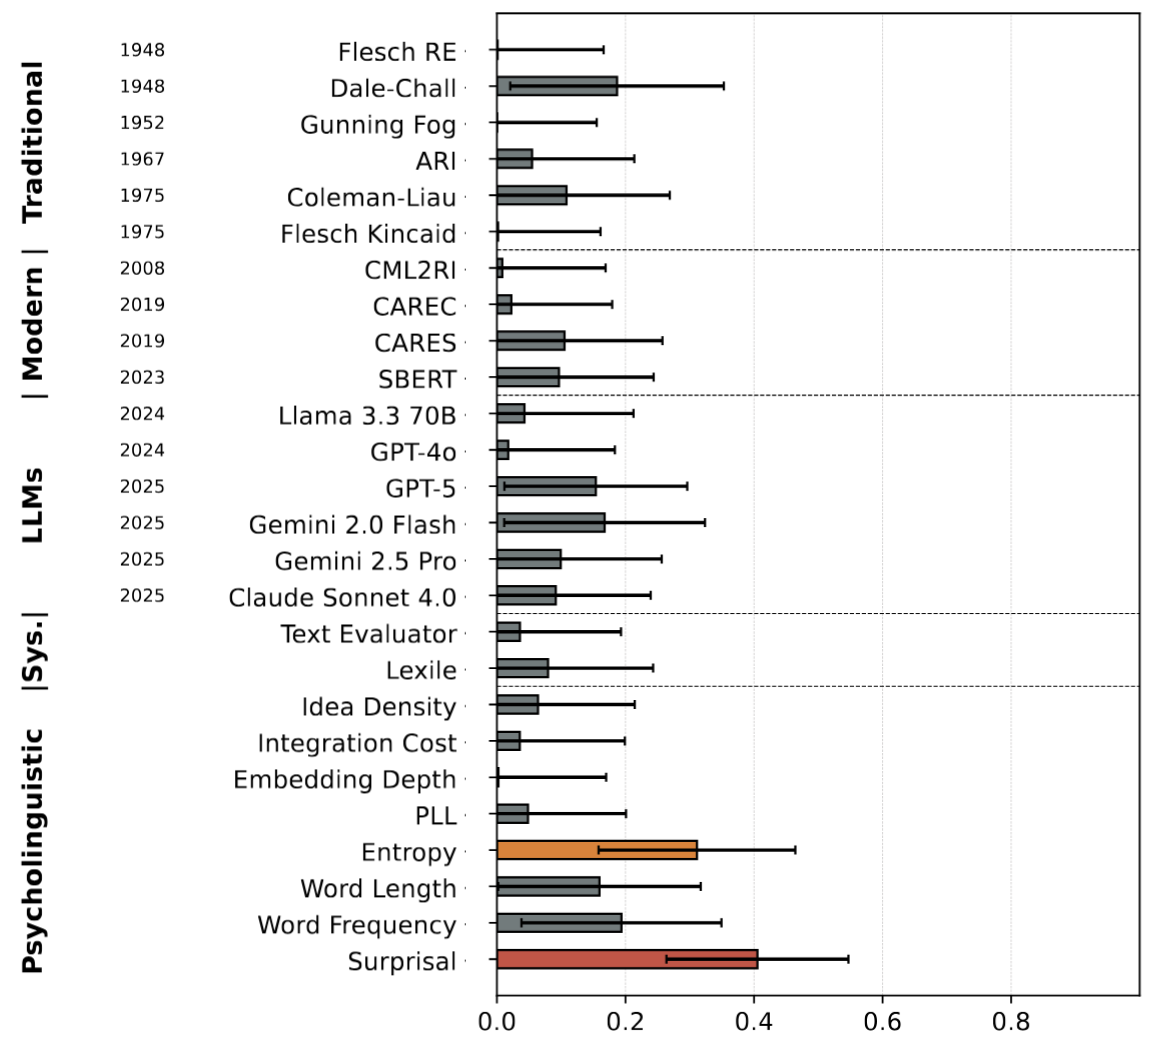
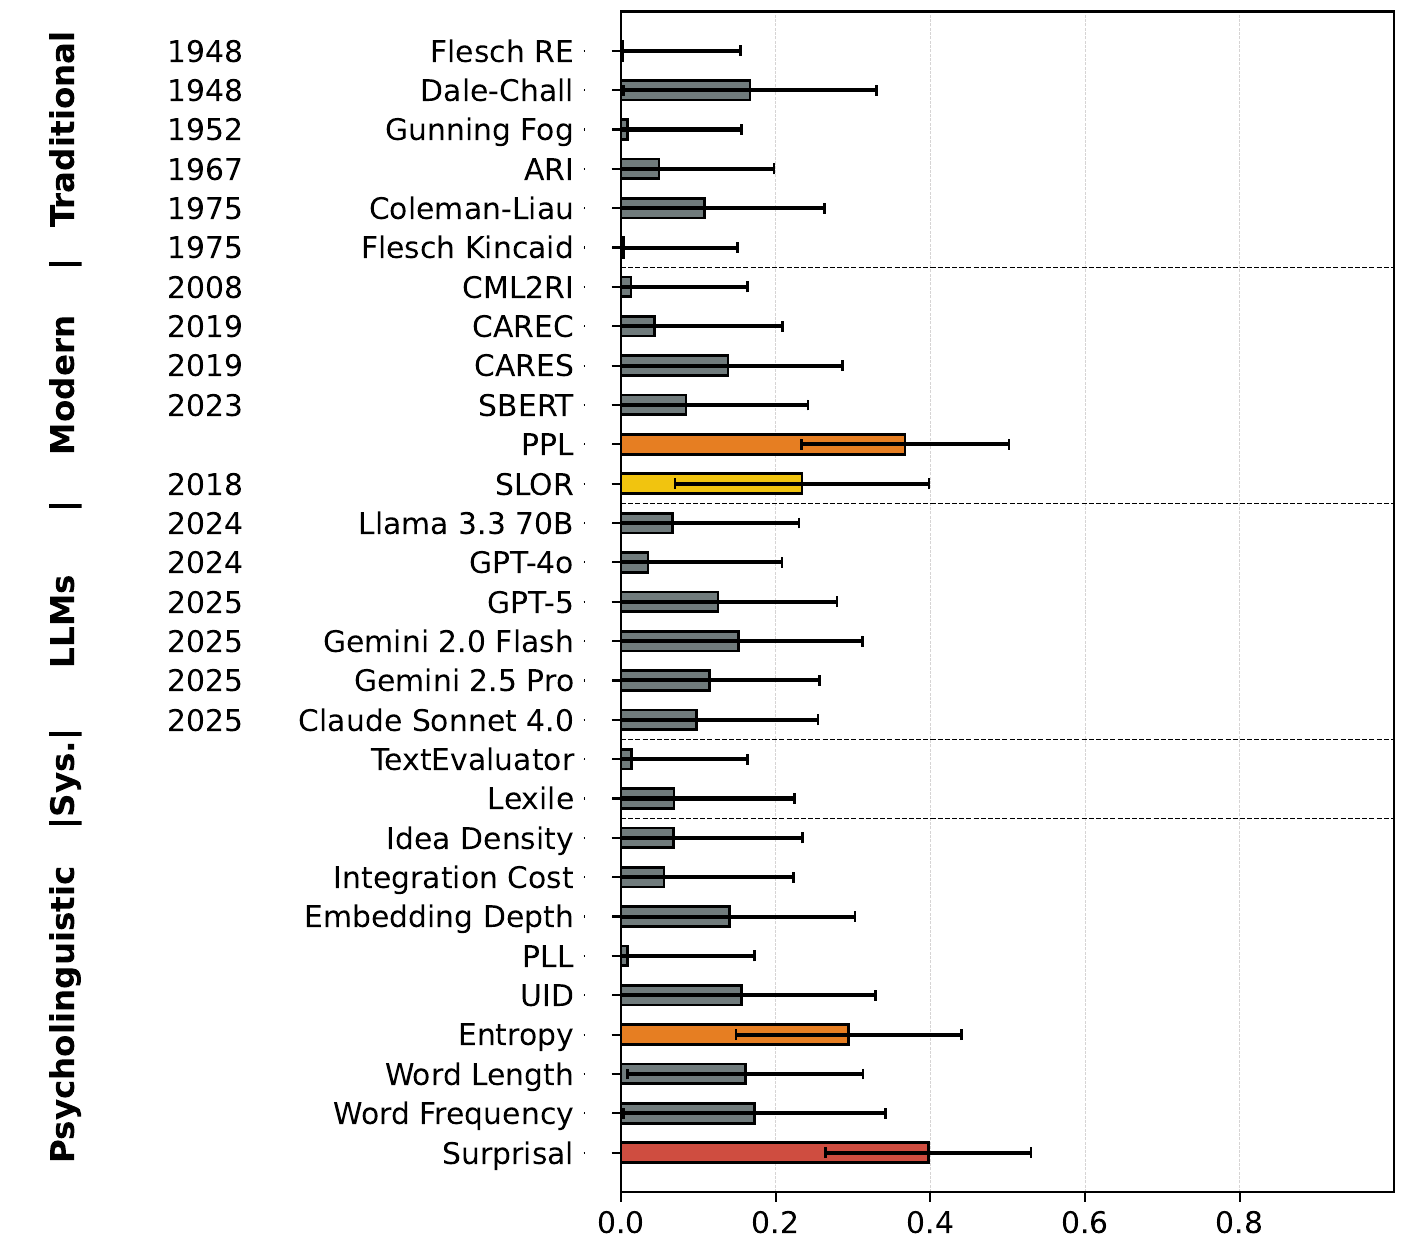
Update landing page to final EMNLP 2026 talk

diff --git a/index.html b/index.html
@@ -141,6 +141,28 @@ header .buttons.secondary{margin-top:-6px}
 }
 .tldr{margin:6px auto 0;max-width:62ch;padding:14px 18px;border:1px solid var(--rule);border-radius:12px;background:var(--surface);font-size:18px;line-height:1.5;text-align:left}
 .tldr-label{font-family:var(--mono);font-size:13px;font-weight:500;letter-spacing:.04em;color:var(--muted);border:1px solid var(--rule);border-radius:4px;padding:1px 6px;margin-right:10px;vertical-align:2px;background:var(--bg)}
+.compare{display:grid;grid-template-columns:minmax(0,1fr) auto minmax(0,1fr);gap:10px 16px;align-items:center;max-width:820px;margin:0 auto;width:100%}
+.compare .hd{font-weight:700;font-size:17px;display:flex;align-items:center;gap:8px}
+.compare .cell{border:1px solid var(--rule);border-radius:10px;padding:10px 14px;display:flex;gap:10px;align-items:center;min-width:0}
+.compare .cell.bad{color:var(--muted)} .compare .cell.good{border-color:var(--blue)}
+.compare .arrow{text-align:center}
+@media (max-width:640px){.compare{gap:8px 6px;font-size:14px}.compare .cell{padding:8px 8px;gap:6px}.compare .hd{font-size:14px}.compare .arrow{transform:none;font-size:16px}}
+.pair{display:grid;grid-template-columns:repeat(2,minmax(0,1fr));gap:20px}
+@media (max-width:760px){.pair{grid-template-columns:minmax(0,1fr)}}
+.pair .txt{border:1px solid var(--rule);border-radius:12px;padding:14px 16px;font-size:16px;line-height:1.6;min-width:0}
+.pair .txt h3{margin:0 0 8px;font-size:18px;display:flex;align-items:center;gap:8px;justify-content:space-between}
+.pair .txt h3 small{font-weight:400;color:var(--muted);font-size:14px}
+mark.d-red{background:transparent;color:#c0392b;font-weight:700} mark.d-green{background:transparent;color:#2e8b57;font-weight:700}
+@media (prefers-color-scheme: dark){:root:not([data-theme="light"]) mark.d-red,:root:not([data-theme="light"]) mark.d-green{filter:brightness(1.4)}}
+.methods{display:grid;grid-template-columns:repeat(5,minmax(0,1fr));gap:12px}
+@media (max-width:860px){.methods{grid-template-columns:repeat(2,minmax(0,1fr))}}
+@media (max-width:520px){.methods{grid-template-columns:minmax(0,1fr)}}
+.methods .card h3{font-size:17px} .methods ul{margin:6px 0 0;padding:0;list-style:none;color:var(--muted);font-size:15px;line-height:1.5}
+.methods .card.psy{border-style:dashed}
+.readers figcaption b.c-red{color:#c0392b} .readers figcaption b.c-green{color:#2e8b57}
+.cards.four{grid-template-columns:repeat(4,minmax(0,1fr))}
+@media (max-width:860px){.cards.four{grid-template-columns:repeat(2,minmax(0,1fr))}}
+@media (max-width:520px){.cards.four{grid-template-columns:minmax(0,1fr)}}
 </style>
 </head>
 <body>
@@ -155,6 +177,7 @@ header .buttons.secondary{margin-top:-6px}
   <symbol id="i-check" viewBox="0 0 24 24"><g fill="none" stroke="currentColor" stroke-width="2" stroke-linecap="round" stroke-linejoin="round"><circle cx="12" cy="12" r="10"/><path d="m9 12 2 2 4-4"/></g></symbol>
   <symbol id="i-chart" viewBox="0 0 24 24"><g fill="none" stroke="currentColor" stroke-width="2" stroke-linecap="round" stroke-linejoin="round"><path d="M3 3v18h18"/><path d="M18 17V9"/><path d="M13 17V5"/><path d="M8 17v-3"/></g></symbol>
   <symbol id="i-reader" viewBox="0 0 56 64"><circle cx="28" cy="15" r="13" fill="currentColor"/><path d="M4 64 C4 42 14 32 28 32 C42 32 52 42 52 64 Z" fill="currentColor"/></symbol>
+  <symbol id="i-x" viewBox="0 0 24 24"><g fill="none" stroke="currentColor" stroke-width="2" stroke-linecap="round"><path d="M18 6 6 18M6 6l12 12"/></g></symbol>
   <symbol id="i-eye" viewBox="0 0 48 40"><g fill="none" stroke="currentColor" stroke-width="3.5"><path d="M2 10V2h8M38 2h8v8M46 30v8h-8M10 38H2v-8"/><path d="M9 20c4-6.5 9-9.5 15-9.5s11 3 15 9.5c-4 6.5-9 9.5-15 9.5s-11-3-15-9.5z"/><circle cx="24" cy="20" r="6"/></g><circle cx="24" cy="20" r="3.2" fill="currentColor"/></symbol>
 </svg>
 <main>
@@ -187,15 +210,28 @@ header .buttons.secondary{margin-top:-6px}
   </section>
 
 
-  <section aria-labelledby="rb">
-    <h2 id="rb">Reading Behaviour</h2>
-    <p class="lead">Two readers of the same paragraph, both answering the comprehension question correctly. Replays at 4× speed with <a href="https://github.com/lacclab/scanpath-studio">Scanpath Studio</a>.</p>
-    <div class="readers">
-      <figure><img src="static/images/reader_a.gif" alt="Replay of reader A: many fixations and regressions over the paragraph" loading="lazy"><figcaption><b>Reader A · 82 s</b> · <svg class="ic c-fg sm" aria-hidden="true"><use href="#i-check"/></svg> Correct</figcaption></figure>
-      <figure><img src="static/images/reader_b.gif" alt="Replay of reader B: fewer fixations, fluent reading of the same paragraph" loading="lazy"><figcaption><b>Reader B · 28 s</b> · <svg class="ic c-fg sm" aria-hidden="true"><use href="#i-check"/></svg> Correct</figcaption></figure>
+  <section aria-labelledby="why">
+    <h2 id="why">Why Eye Movements?</h2>
+    <p class="lead">Readability methods are usually validated against comprehension tests or human difficulty labels. Eye movements give a <span class="k-blue">cognitive</span> signal of how easy a text is to read, in real time.</p>
+    <div class="compare">
+      <div class="hd">Comprehension tests &amp; labels</div><div></div><div class="hd right"><svg class="ic c-blue" aria-hidden="true"><use href="#i-eye"/></svg><span class="k-blue">Eye movements</span></div>
+      <div class="cell bad"><svg class="ic sm c-fg" aria-hidden="true"><use href="#i-x"/></svg><span>Measured after reading</span></div><div class="arrow" aria-hidden="true">→</div><div class="cell good"><svg class="ic sm c-blue" aria-hidden="true"><use href="#i-check"/></svg><span>Online: during reading</span></div><div class="cell bad"><svg class="ic sm c-fg" aria-hidden="true"><use href="#i-x"/></svg><span>Depends on written questions</span></div><div class="arrow" aria-hidden="true">→</div><div class="cell good"><svg class="ic sm c-blue" aria-hidden="true"><use href="#i-check"/></svg><span>No questions needed</span></div><div class="cell bad"><svg class="ic sm c-fg" aria-hidden="true"><use href="#i-x"/></svg><span>A few discrete levels</span></div><div class="arrow" aria-hidden="true">→</div><div class="cell good"><svg class="ic sm c-blue" aria-hidden="true"><use href="#i-check"/></svg><span>Continuous measures</span></div><div class="cell bad"><svg class="ic sm c-fg" aria-hidden="true"><use href="#i-x"/></svg><span>Different texts: topic mixed with readability</span></div><div class="arrow" aria-hidden="true">→</div><div class="cell good"><svg class="ic sm c-blue" aria-hidden="true"><use href="#i-check"/></svg><span>Same text, two versions: content controlled</span></div>
     </div>
+  </section>
+
+  <section aria-labelledby="cce">
+    <h2 id="cce">Content-Controlled Evaluation</h2>
+    <p class="lead">Each paragraph has an <span class="k-red">original</span> and a <span class="k-green">simplified</span> version written by language teachers: same topic and content, only the wording changes.</p>
+    <div class="pair">
+      <div class="txt"><h3><span class="c-red"><svg class="ic sm c-red" aria-hidden="true"><use href="#i-book"/></svg> Original</span><small>86 words</small></h3><mark class="d-red">Viennese-born</mark> Helena Hartlauer, 32, said she was not surprised <mark class="d-red">at</mark> her city&#x27;s top position. <mark class="d-red">The municipality&#x27;s social democratic</mark> government has a <mark class="d-red">long tradition of investing in high-quality social housing, making Vienna almost uniquely affordable among major</mark> cities. &quot;I live in a <mark class="d-red">100sq-meter turn-of-the-century</mark> apartment in a good area about 20 minutes&#x27; walk from the city center. But my rent is just €800 (£625) a month.&quot; <mark class="d-red">An equivalent</mark> apartment in London <mark class="d-red">would cost upwards of</mark> £2,000 and even more in New York, <mark class="d-red">ranked</mark> 44th in the <mark class="d-red">table.</mark></div>
+      <div class="txt"><h3><span class="c-green"><svg class="ic sm c-green" aria-hidden="true"><use href="#i-book"/></svg> Simplified</span><small>90 words</small></h3>Helena Hartlauer, 32, <mark class="d-green">is from Vienna. She</mark> said she was not surprised <mark class="d-green">about</mark> her city&#x27;s top position. <mark class="d-green">For many years, Vienna&#x27;s</mark> government has <mark class="d-green">spent money on good social housing. This makes Vienna</mark> a <mark class="d-green">cheap place to live compared to other big</mark> cities. &quot;I live in a <mark class="d-green">100 square-meter</mark> apartment in a good area about 20 minutes&#x27; walk from the city center. But my rent is just €800 (£625) a month.&quot; <mark class="d-green">A similar</mark> apartment in London <mark class="d-green">costs over</mark> £2,000 and even more in New York, <mark class="d-green">which came</mark> 44th in the <mark class="d-green">study.</mark></div>
+    </div>
+    <div class="readers">
+      <figure><img src="static/images/original_vienna.gif" alt="Replay at 4x speed of one native English reader reading the original paragraph: 26 seconds, 28 regressions" loading="lazy"><figcaption><b class="c-red">Original · 26 s · 28 regressions</b></figcaption></figure>
+      <figure><img src="static/images/simplified_vienna.gif" alt="Replay at 4x speed of one native English reader reading the simplified paragraph: 20 seconds, 9 regressions" loading="lazy"><figcaption><b class="c-green">Simplified · 20 s · 9 regressions</b></figcaption></figure>
+    </div>
+    <p class="lead">One reader per version, replayed at 4× speed with <a href="https://github.com/lacclab/scanpath-studio">Scanpath Studio</a>. Individual readers vary, so the evaluation averages about 100 readers per version.</p>
     <p class="tool-link"><a class="btn lab" href="https://github.com/lacclab/scanpath-studio">Scanpath Studio · Replay Eye-Tracking Trials</a></p>
-    <p class="lead">Same answer, very different <span class="k-blue">reading</span>. Comprehension tests and ratings miss what happens while people read.</p>
   </section>
 
   <section aria-labelledby="meth">
@@ -241,14 +277,21 @@ header .buttons.secondary{margin-top:-6px}
     </div>
   </section>
 
+  <section aria-labelledby="rm">
+    <h2 id="rm">Readability Methods</h2>
+    <p class="lead">20 <span class="k-orange">readability methods</span>, benchmarked against 9 psycholinguistic measures from reading research.</p>
+    <div class="methods"><div class="card"><h3 class="k-orange">Traditional Formulas</h3><ul><li>Flesch RE</li><li>Dale-Chall</li><li>Gunning Fog</li><li>ARI</li><li>Coleman-Liau</li><li>Flesch-Kincaid</li></ul></div><div class="card"><h3 class="k-orange">Modern NLP Methods</h3><ul><li>CML2RI</li><li>CAREC</li><li>CARES</li><li>SBERT</li><li>PPL</li><li>SLOR</li></ul></div><div class="card"><h3 class="k-orange">LLMs</h3><ul><li>Llama 3.3 70B</li><li>GPT-4o</li><li>GPT-5</li><li>Gemini 2.0 Flash</li><li>Gemini 2.5 Pro</li><li>Claude Sonnet 4.0</li></ul></div><div class="card"><h3 class="k-orange">Commercial Systems</h3><ul><li>TextEvaluator</li><li>Lexile</li></ul></div><div class="card psy"><h3 class="">Psycholinguistic Measures</h3><ul><li>Idea Density</li><li>Integration Cost</li><li>Embedding Depth</li><li>PLL</li><li>UID</li><li>Entropy</li><li>Word Length</li><li>Word Frequency</li><li>Surprisal</li></ul></div></div>
+  </section>
+
   <section aria-labelledby="res">
     <h2 id="res">Results</h2>
     <div class="result">
       <figure>
-        <img src="static/images/results.png" alt="Bar chart of Pearson r between the change in each method's score and the change in reading ease, from original to simplified texts. Readability methods from 1948 to 2025 are low; surprisal is highest.">
-        <figcaption>Pearson r between Δ Score (original − simplified) and Δ Regression Rate from eye tracking, for each readability method. Bar color marks significance.
+        <img src="static/images/results.png" alt="Bar chart of Pearson r between the change in each method's score and the change in regression rate, from original to simplified paragraphs. Readability methods from 1948 to 2025 are low; surprisal is highest.">
+        <figcaption>Pearson r between Δ Score (original − simplified) and Δ Regression Rate from eye tracking, paragraph level, for each readability method and psycholinguistic measure. Error bars: 95% bootstrap confidence intervals. Bar color marks significance.
           <span class="legend" aria-label="Legend">
             <span><i style="background:#7d8a87"></i>Not significant</span>
+            <span><i style="background:#f2c12e"></i>p &lt; 0.05</span>
             <span><i style="background:#d9843a"></i>p &lt; 0.01</span>
             <span><i style="background:#c1554a"></i>p &lt; 0.001</span>
           </span></figcaption>
@@ -256,26 +299,29 @@ header .buttons.secondary{margin-top:-6px}
       <div class="takeaways">
         <div><h3 class="k-orange">Readability Methods</h3><p>Traditional formulas, NLP models, commercial systems and LLMs, from 1948 to 2025, are weak and mostly not significant predictors of reading ease.</p></div>
         <div><h3>Psycholinguistic Measures</h3><p>Psycholinguistic measures used to predict reading times do better. Surprisal is the best predictor overall.</p></div>
-        <div><h3 class="k-blue">Data</h3><p>OneStop: 360 native and 278 non-native English speakers reading 162 original and simplified paragraph pairs with eye tracking.</p></div>
+        <div><h3 class="k-blue">Data</h3><p>OneStop: about 640 readers (360 native and 278 non-native English speakers) reading 162 original and simplified paragraph pairs with eye tracking.</p></div>
       </div>
     </div>
   </section>
 
   <section aria-labelledby="rob">
     <h2 id="rob">Robustness</h2>
-    <div class="cards">
+    <div class="cards four">
       <div class="card"><svg class="ic c-fg big" aria-hidden="true"><use href="#i-users"/></svg><h3>Readers</h3><p>Native &amp; non-native English speakers</p></div>
       <div class="card"><svg class="ic c-fg big" aria-hidden="true"><use href="#i-search"/></svg><h3>Reading Regimes</h3><p>Reading for comprehension &amp; information seeking</p></div>
       <div class="card"><svg class="ic c-fg big" aria-hidden="true"><use href="#i-book"/></svg><h3>Text Units</h3><p>Sentences &amp; paragraphs</p></div>
+      <div class="card"><svg class="ic c-blue big" aria-hidden="true"><use href="#i-eye"/></svg><h3>Measures</h3><p>11 eye-tracking measures &amp; reading speed</p></div>
     </div>
   </section>
 
   <section aria-labelledby="tk">
     <h2 id="tk">Takeaways</h2>
     <ul class="takeaways-list icons-list">
+      <li><svg class="ic c-blue" aria-hidden="true"><use href="#i-eye"/></svg><span>A <span class="k-blue">cognitive</span> evaluation of <span class="k-orange">readability methods</span>.</span></li>
+      <li><svg class="ic c-fg" aria-hidden="true"><use href="#i-book"/></svg><span>Content-controlled evaluation: the same text in two versions.</span></li>
       <li><svg class="ic c-orange" aria-hidden="true"><use href="#i-warn"/></svg><span><span class="k-orange">Existing readability scores</span> may not reflect <span class="k-blue">reading ease</span>.</span></li>
+      <li><svg class="ic c-blue" aria-hidden="true"><use href="#i-chart"/></svg><span><span class="k-orange">Future readability measures</span> should reflect <span class="k-blue">reading ease</span>.</span></li>
       <li><svg class="ic c-fg" aria-hidden="true"><use href="#i-bulb"/></svg><span>Surprisal is a simple, strong baseline.</span></li>
-      <li><svg class="ic c-blue" aria-hidden="true"><use href="#i-eye"/></svg><span><span class="k-orange">Next readability measures</span> should reflect <span class="k-blue">reading ease</span>.</span></li>
     </ul>
   </section>
 
